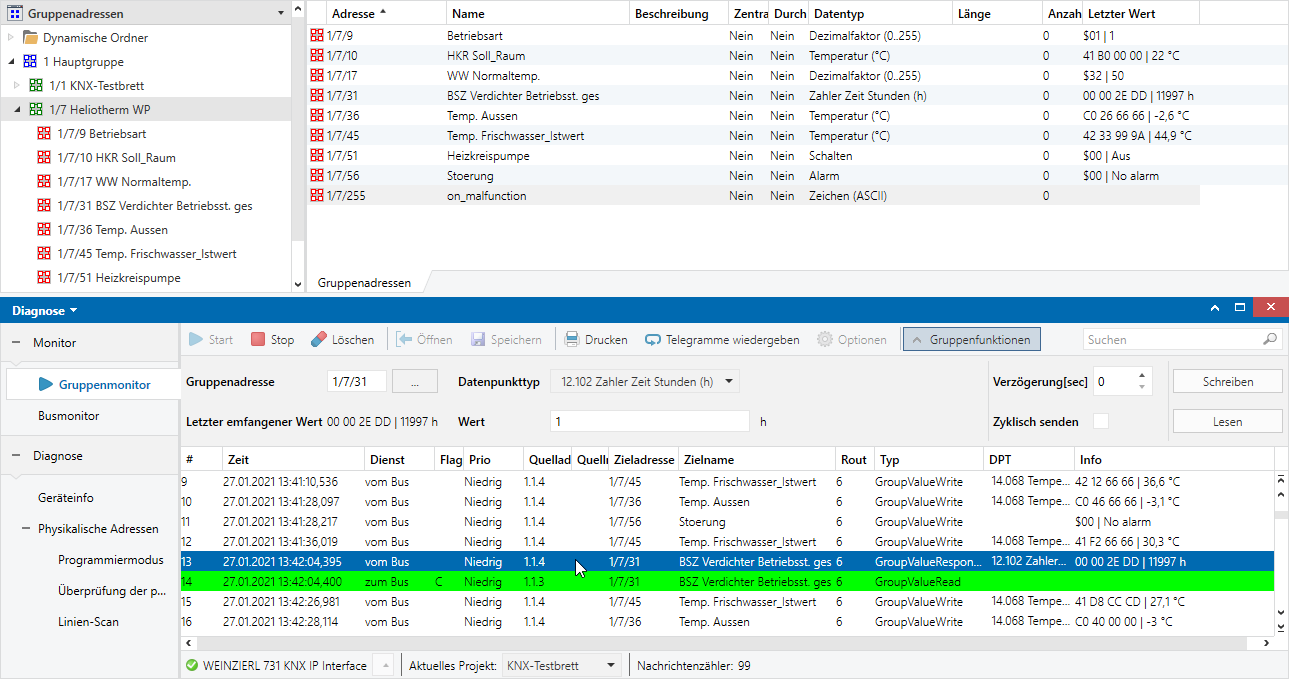
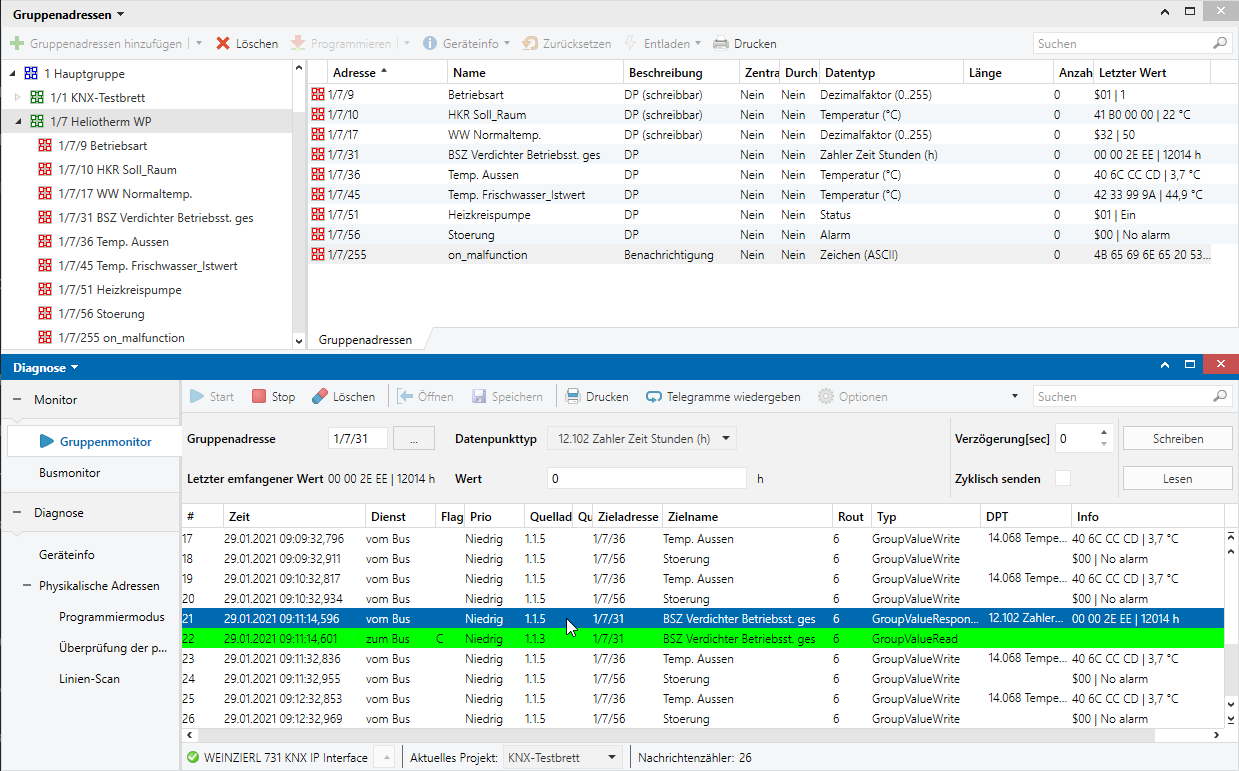
Ongoing work.

diff --git a/README.md b/README.md
@@ -186,7 +186,7 @@ The following block shows a sample configuration for the heat pump parameters
 
 These heat pump parameters are updated every 25 seconds and some of them are sent cyclically to the KNX bus every minute, while some of the other parameters are sent immediately after a change.
 
-Only the two parameters *"Betriebsart"* and *"HKR Soll_Raum"* are writable.
+Only the three parameters *"Betriebsart"*, *"HKR Soll_Raum"* and *"WW Normaltemp."* are writable.
 
 In addition, a notification with the current error message is sent to the KNX bus if the heat pump is malfunctioning.
 
@@ -223,7 +223,7 @@ data_points:
     # 5 = Absenkung
     # 6 = Urlaub
     # 7 = Party
-    value_type: '1byte_unsigned'  # DPT-5
+    value_type: '1byte_unsigned'  # DPT-5.005 (Dezimalfaktor 0..255)
     group_address: '1/7/9'
     writable: true
     send_on_change: true
@@ -232,7 +232,7 @@ data_points:
   'HKR Soll_Raum':
     # MIN: 10.0
     # MAX: 25.0
-    value_type: 'common_temperature'  # DPT-14.068
+    value_type: 'common_temperature'  # DPT-14.068 (Temperatur °C)
     group_address: '1/7/10'
     writable: true
     send_on_change: true
@@ -241,7 +241,7 @@ data_points:
   'WW Normaltemp.':
     # MIN: 10
     # MAX: 75
-    value_type: '1byte_unsigned'  # DPT-5
+    value_type: '1byte_unsigned'  # DPT-5.005 (Dezimalfaktor 0..255)
     group_address: '1/7/17'
     writable: true
     send_on_change: true
@@ -250,20 +250,20 @@ data_points:
   'BSZ Verdichter Betriebsst. ges':
     # MIN: 0
     # MAX: 100000
-    value_type: '4byte_unsigned'  # DPT-12.102
+    value_type: '4byte_unsigned'  # DPT-12.102 (Zähler Zeit Stunden)
     group_address: '1/7/31'
   # -----------------------------------------------------------------
   'Temp. Aussen':
     # MIN: -20.0
     # MAX: 40.0
-    value_type: 'common_temperature'  # DPT-14.068
+    value_type: 'common_temperature'  # DPT-14.068 (Temperatur °C)
     group_address: '1/7/36'
     cyclic_sending: true
   # -----------------------------------------------------------------
   'Temp. Frischwasser_Istwert':
     # MIN: 0.0
     # MAX: 70.0
-    value_type: 'common_temperature'  # DPT-14.068
+    value_type: 'common_temperature'  # DPT-14.068 (Temperatur °C)
     group_address: '1/7/45'
     send_on_change: true
     on_change_of_relative: 10
@@ -271,20 +271,20 @@ data_points:
   'Heizkreispumpe':
     # MIN: 0
     # MAX: 1
-    value_type: 'binary'  # DPT-1
+    value_type: 'binary'  # DPT-1.011 (Status)
     group_address: '1/7/51'
     send_on_change: true
   # -----------------------------------------------------------------
   'Stoerung':
     # MIN: 0
     # MAX: 1
-    value_type: 'binary'  # DPT-1
+    value_type: 'binary'  # DPT-1.005 (Alarm)
     group_address: '1/7/56'
     cyclic_sending: true
 
 notifications:
   on_malfunction:
-    group_address: '1/7/255'  # DPT-16.000
+    group_address: '1/7/255'  # DPT-16.000 (Zeichen ASCII)
     repeat_after:
       minutes: 10
 ```
